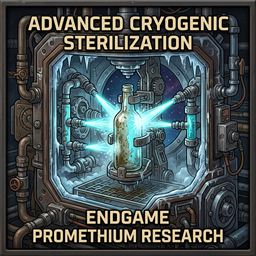
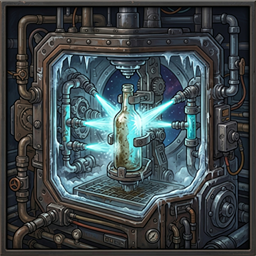
adjustment: refined nutrient amounts, adjusted sprites for items, adjusted technology, ensured nutrient bottles are always spawned at 100% freshness.

Changed region(s): [[0.0938, 0.0312, 0.9062, 0.2188], [0.125, 0.8125, 0.875, 0.9688]]

diff --git a/scripts/build.py b/scripts/build.py
@@ -1,0 +1,150 @@
+import argparse
+import json
+import os
+import shutil
+import sys
+import zipfile
+from pathlib import Path
+
+
+def main():
+    parser = argparse.ArgumentParser(
+        description="Build and package Factorio mod from src/ directory."
+    )
+    parser.add_argument(
+        "-y",
+        "--yes",
+        action="store_true",
+        help="Automatically copy to local Factorio mods folder without prompting",
+    )
+    parser.add_argument(
+        "-n",
+        "--no-copy",
+        action="store_true",
+        help="Skip copying to local Factorio mods folder",
+    )
+    args = parser.parse_args()
+
+    # Determine paths
+    script_dir = Path(__file__).resolve().parent
+    project_root = script_dir.parent
+    src_dir = project_root / "src"
+    target_dir = project_root / "target"
+    info_json_path = src_dir / "info.json"
+
+    # Validate src and info.json
+    if not src_dir.is_dir():
+        print(f"Error: Source directory '{src_dir}' not found.", file=sys.stderr)
+        sys.exit(1)
+
+    if not info_json_path.is_file():
+        print(f"Error: 'info.json' not found in '{src_dir}'.", file=sys.stderr)
+        sys.exit(1)
+
+    try:
+        with open(info_json_path, "r", encoding="utf-8") as f:
+            info_data = json.load(f)
+    except Exception as e:
+        print(f"Error reading info.json: {e}", file=sys.stderr)
+        sys.exit(1)
+
+    mod_name = info_data.get("name")
+    mod_version = info_data.get("version")
+
+    if not mod_name or not mod_version:
+        print(
+            "Error: 'info.json' must contain both 'name' and 'version'.",
+            file=sys.stderr,
+        )
+        sys.exit(1)
+
+    # Output filename and internal directory structure
+    archive_folder_name = f"{mod_name}_{mod_version}"
+    zip_filename = f"{archive_folder_name}.zip"
+    target_dir.mkdir(parents=True, exist_ok=True)
+    target_zip_path = target_dir / zip_filename
+
+    print(f"Packaging mod: {mod_name} v{mod_version}")
+    print(f"Source: {src_dir}")
+    print(f"Target: {target_zip_path}")
+
+    # Build ZIP archive
+    file_count = 0
+    total_uncompressed_bytes = 0
+
+    with zipfile.ZipFile(target_zip_path, "w", zipfile.ZIP_DEFLATED) as zipf:
+        for root, _, files in os.walk(src_dir):
+            for file in files:
+                full_path = Path(root) / file
+                rel_path = full_path.relative_to(src_dir)
+                archive_internal_path = Path(archive_folder_name) / rel_path
+
+                # Zip paths always use forward slashes
+                arcname = str(archive_internal_path).replace("\\", "/")
+                zipf.write(full_path, arcname=arcname)
+
+                file_count += 1
+                total_uncompressed_bytes += full_path.stat().st_size
+
+    compressed_bytes = target_zip_path.stat().st_size
+    print(f"\nSuccessfully built {zip_filename}:")
+    print(f"  Files packaged: {file_count}")
+    print(f"  Uncompressed:   {total_uncompressed_bytes / 1024:.1f} KB")
+    print(f"  Archive size:   {compressed_bytes / 1024:.1f} KB")
+
+    if args.no_copy:
+        print("\nSkipping copy to Factorio mods folder (--no-copy specified).")
+        return
+
+    # Check for local Factorio mods directory
+    appdata = os.environ.get("APPDATA")
+    if not appdata:
+        print(
+            "\nNotice: %APPDATA% environment variable not found. Skipping local copy."
+        )
+        return
+
+    factorio_mods_dir = Path(appdata) / "Factorio" / "mods"
+    if not factorio_mods_dir.is_dir():
+        print(f"\nNotice: Factorio mods folder not found at '{factorio_mods_dir}'.")
+        return
+
+    # Prompt user or use -y
+    copy_confirmed = False
+    if args.yes:
+        copy_confirmed = True
+    else:
+        try:
+            choice = (
+                input(
+                    f"\nCopy {zip_filename} to local Factorio mods folder ({factorio_mods_dir})? [y/N]: "
+                )
+                .strip()
+                .lower()
+            )
+            copy_confirmed = choice in ("y", "yes")
+        except (KeyboardInterrupt, EOFError):
+            print("\nOperation cancelled.")
+            return
+
+    if copy_confirmed:
+        dest_zip = factorio_mods_dir / zip_filename
+
+        # Remove older version zips of this mod to avoid duplicates in Factorio
+        for old_zip in factorio_mods_dir.glob(f"{mod_name}_*.zip"):
+            if old_zip != dest_zip:
+                try:
+                    old_zip.unlink()
+                    print(f"  Removed older version: {old_zip.name}")
+                except Exception as e:
+                    print(f"  Warning: could not remove {old_zip.name}: {e}")
+
+        # Overwrite current zip
+        shutil.copy2(target_zip_path, dest_zip)
+        print(f"\nSuccessfully deployed to: {dest_zip}")
+    else:
+        print("\nSkipped copy to local Factorio mods folder.")
+
+
+if __name__ == "__main__":
+    main()
